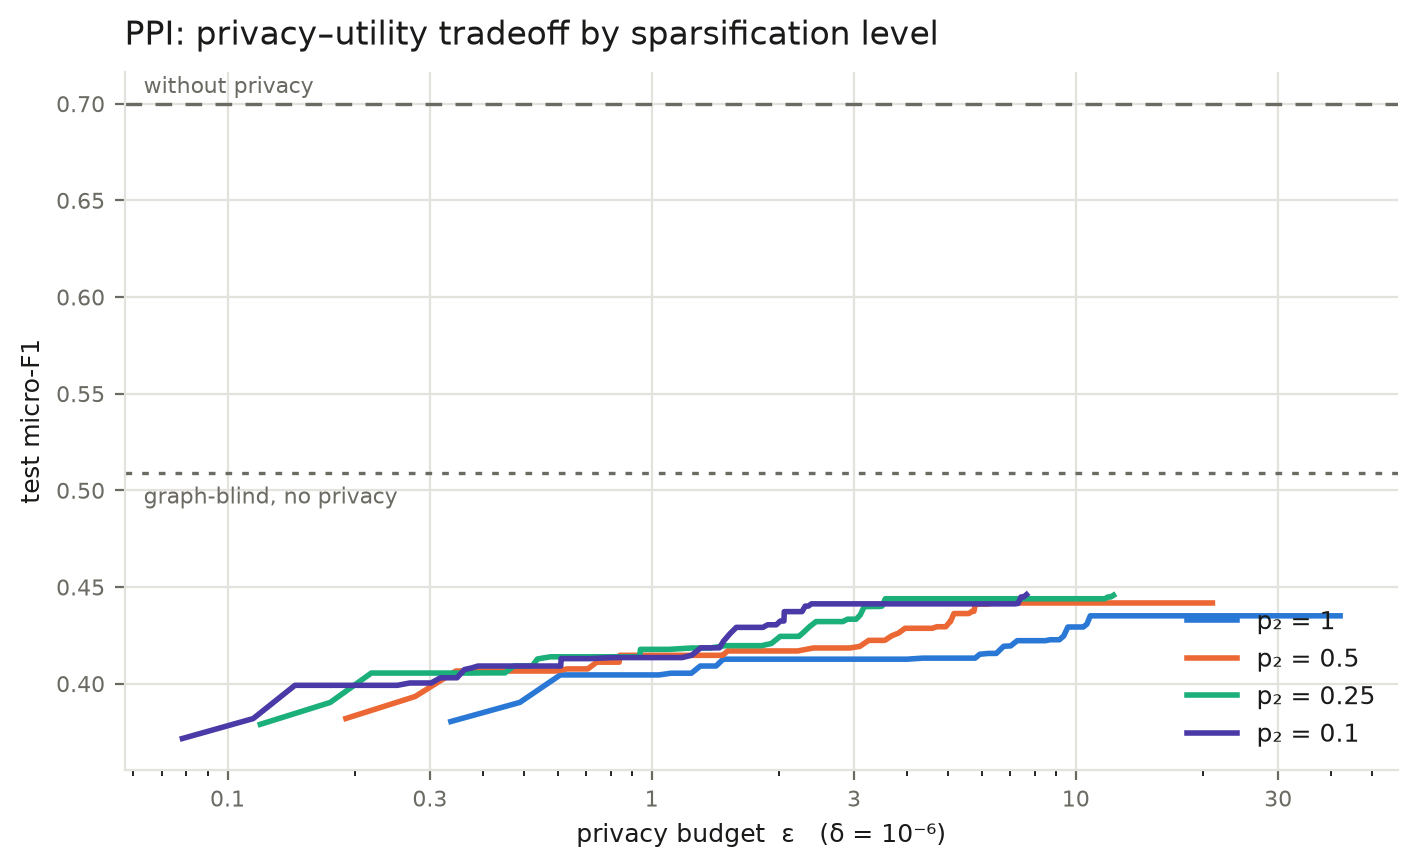
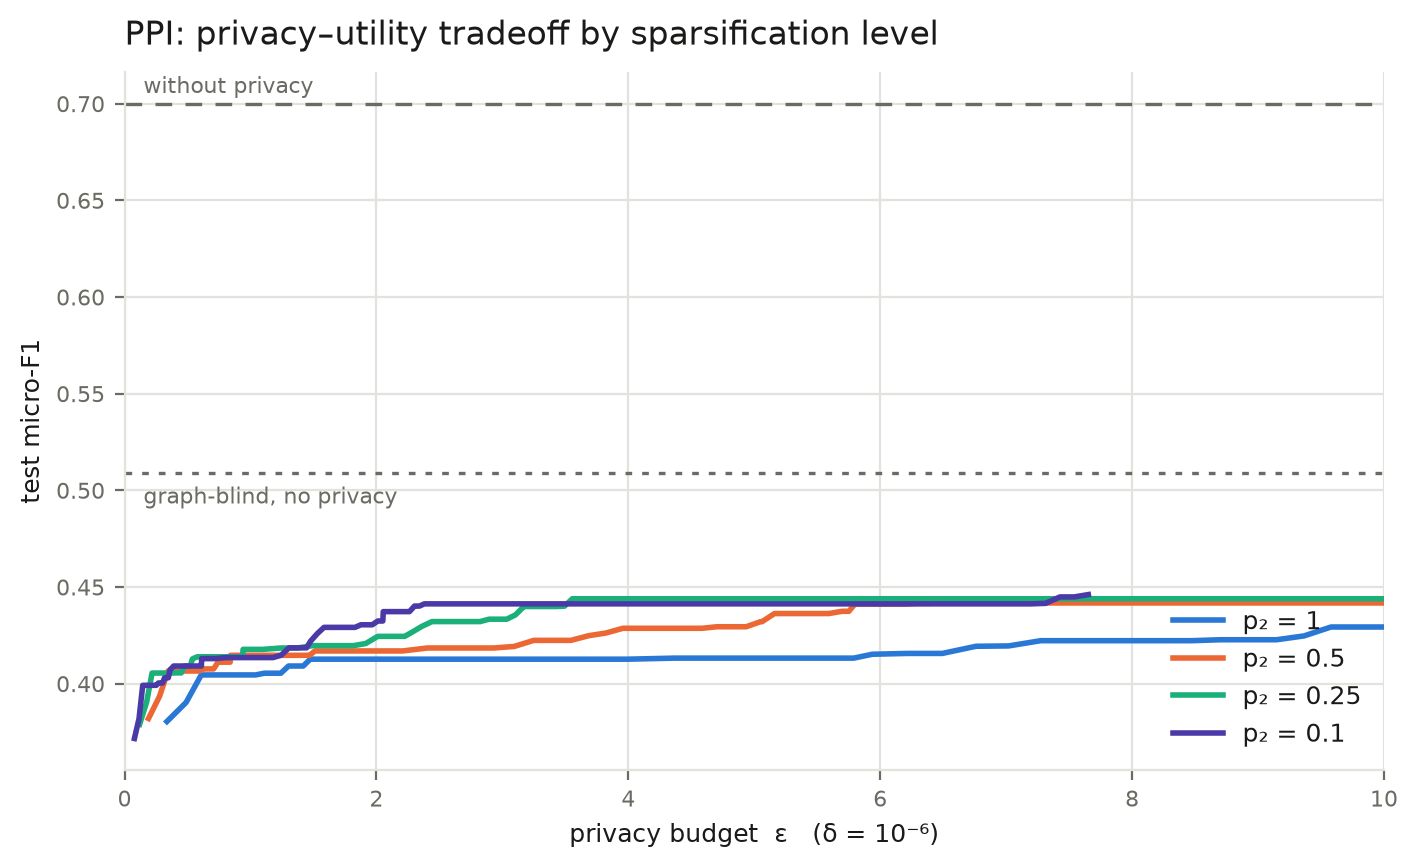
Switch all figures to a consistent linear x-axis (epsilon 0-10, ticks every 2)
Log x-axis distorted spacing (0.1->0.3 looked the same width as 3->10); every
plot now uses a uniform linear epsilon axis matching the y-axis, so figures are
directly comparable.  Range 0-10 covers the DP-relevant budget for all datasets.

diff --git a/scripts/plot_ppi_frontier.py b/scripts/plot_ppi_frontier.py
@@ -100,14 +100,8 @@ def main():
                     textcoords='offset points', xytext=(0, -11),
                     color=MUTED, fontsize=8)
 
-        # Log x: epsilon spans ~40x.  Explicit decade-ish ticks with the
-        # minor labels suppressed — the default log formatter collides.
-        ax.set_xscale('log')
-        ticks = [t for t in (0.1, 0.2, 0.5, 1.0, 2.0, 5.0)
-                 if lo_x * 0.9 <= t <= hi_x * 1.1]
-        ax.xaxis.set_major_locator(FixedLocator(ticks))
-        ax.xaxis.set_major_formatter(FixedFormatter([f'{t:g}' for t in ticks]))
-        ax.xaxis.set_minor_formatter(NullFormatter())
+        ax.set_xlim(0, 10)
+        ax.set_xticks([0, 2, 4, 6, 8, 10])
         ax.set_ylim(*ref['ylim'])
         ax.set_xlabel('privacy budget  ε   (δ = 10⁻⁶)', fontsize=9, color=INK)
         ax.set_title(ref['title'], fontsize=11, color=INK, loc='left', pad=8)

diff --git a/scripts/plot_ppi_pareto.py b/scripts/plot_ppi_pareto.py
@@ -100,13 +100,8 @@ def main():
                 xycoords=('axes fraction', 'data'), textcoords='offset points',
                 xytext=(0, -11), color=MUTED, fontsize=8)
 
-    ax.set_xscale('log')
-    allx = [e for pts in curves.values() for e, _ in pts]
-    ticks = [t for t in (0.1, 0.3, 1, 3, 10, 30)
-             if min(allx) * 0.9 <= t <= max(allx) * 1.1]
-    ax.xaxis.set_major_locator(FixedLocator(ticks))
-    ax.xaxis.set_major_formatter(FixedFormatter([f'{t:g}' for t in ticks]))
-    ax.xaxis.set_minor_formatter(NullFormatter())
+    ax.set_xlim(0, 10)
+    ax.set_xticks([0, 2, 4, 6, 8, 10])
     ax.set_xlabel('privacy budget  ε   (δ = 10⁻⁶)', fontsize=9, color=INK)
     ax.set_ylabel(ref['label'], fontsize=9, color=INK)
     ax.set_title('PPI: privacy–utility tradeoff by sparsification level',

diff --git a/scripts/plot_frontier.py b/scripts/plot_frontier.py
@@ -86,13 +86,8 @@ def main():
                     textcoords='offset points', xytext=(0, dy),
                     color=MUTED, fontsize=8)
 
-    ax.set_xscale('log')
-    allx = [e for pts in curves.values() for e, _ in pts]
-    ticks = [t for t in (0.1, 0.3, 1, 3, 10, 30, 100)
-             if min(allx) * 0.9 <= t <= max(allx) * 1.1]
-    ax.xaxis.set_major_locator(FixedLocator(ticks))
-    ax.xaxis.set_major_formatter(FixedFormatter([f'{t:g}' for t in ticks]))
-    ax.xaxis.set_minor_formatter(NullFormatter())
+    ax.set_xlim(0, 10)
+    ax.set_xticks([0, 2, 4, 6, 8, 10])
     ax.set_xlabel('privacy budget  ε', fontsize=9, color=INK)
     ax.set_ylabel(a.ylabel, fontsize=9, color=INK)
     if a.title:
